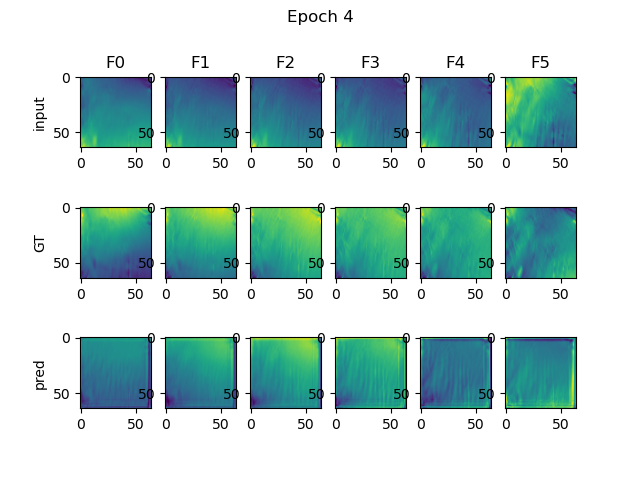
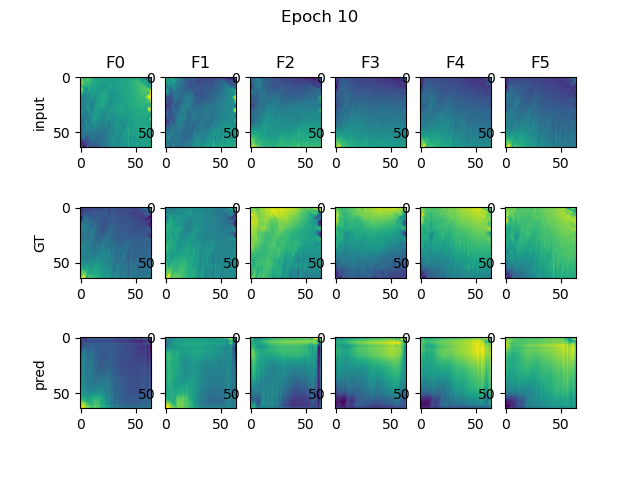
resnet discriminators

diff --git a/dcgan/resnetmodel.py b/dcgan/resnetmodel.py
@@ -1,4 +1,6 @@
+from types import SimpleNamespace
 import torch
+import torch as t
 from torch import nn, optim
 import torch.nn.functional as F
 
@@ -160,3 +162,255 @@ class VAE(nn.Module):
         std = torch.exp(logvar / 2) # in log-space, squareroot is divide by two
         epsilon = torch.randn_like(std)
         return epsilon * std + mean
+
+
+class ResNetBlock(nn.Module):
+
+    def __init__(self, c_in, act_fn, subsample=False, c_out=-1):
+        """
+        Inputs:
+            c_in - Number of input features
+            act_fn - Activation class constructor (e.g. nn.ReLU)
+            subsample - If True, we want to apply a stride inside the block and reduce the output shape by 2 in height and width
+            c_out - Number of output features. Note that this is only relevant if subsample is True, as otherwise, c_out = c_in
+        """
+        super().__init__()
+        if not subsample:
+            c_out = c_in
+
+        # Network representing F
+        self.net = nn.Sequential(
+            nn.Conv2d(c_in, c_out, kernel_size=3, padding=1, stride=1 if not subsample else 2, bias=False),  # No bias needed as the Batch Norm handles it
+            nn.BatchNorm2d(c_out),
+            act_fn(),
+            nn.Conv2d(c_out, c_out, kernel_size=3, padding=1, bias=False),
+            nn.BatchNorm2d(c_out)
+        )
+
+        # 1x1 convolution with stride 2 means we take the upper left value, and transform it to new output size
+        self.downsample = nn.Conv2d(c_in, c_out, kernel_size=1, stride=2) if subsample else None
+        self.act_fn = act_fn()
+
+    def forward(self, x):
+        z = self.net(x)
+        if self.downsample is not None:
+            x = self.downsample(x)
+        out = z + x
+        out = self.act_fn(out)
+        return out
+
+class PreActResNetBlock(nn.Module):
+
+    def __init__(self, c_in, act_fn, subsample=False, c_out=-1):
+        """
+        Inputs:
+            c_in - Number of input features
+            act_fn - Activation class constructor (e.g. nn.ReLU)
+            subsample - If True, we want to apply a stride inside the block and reduce the output shape by 2 in height and width
+            c_out - Number of output features. Note that this is only relevant if subsample is True, as otherwise, c_out = c_in
+        """
+        super().__init__()
+        if not subsample:
+            c_out = c_in
+
+        # Network representing F
+        self.net = nn.Sequential(
+            nn.BatchNorm2d(c_in),
+            act_fn(),
+            nn.Conv2d(c_in, c_out, kernel_size=3, padding=1, stride=1 if not subsample else 2, bias=False),
+            nn.BatchNorm2d(c_out),
+            act_fn(),
+            nn.Conv2d(c_out, c_out, kernel_size=3, padding=1, bias=False)
+        )
+
+        # 1x1 convolution needs to apply non-linearity as well as not done on skip connection
+        self.downsample = nn.Sequential(
+            nn.BatchNorm2d(c_in),
+            act_fn(),
+            nn.Conv2d(c_in, c_out, kernel_size=1, stride=2, bias=False)
+        ) if subsample else None
+
+    def forward(self, x):
+        z = self.net(x)
+        if self.downsample is not None:
+            x = self.downsample(x)
+        out = z + x
+        return out
+
+resnet_blocks_by_name = {
+    "ResNetBlock": ResNetBlock,
+    "PreActResNetBlock": PreActResNetBlock
+}
+act_fn_by_name = {
+    "tanh": nn.Tanh,
+    "relu": nn.ReLU,
+    "leakyrelu": nn.LeakyReLU,
+    "gelu": nn.GELU
+}
+
+class ResNetFrameDiscriminator(nn.Module):
+
+    def __init__(self, params, num_blocks=[3,3,3], c_hidden=[16,32,64], act_fn_name="relu", block_name="ResNetBlock", **kwargs):
+        """
+        Inputs:
+            num_classes - Number of classification outputs (10 for CIFAR10)
+            num_blocks - List with the number of ResNet blocks to use. The first block of each group uses downsampling, except the first.
+            c_hidden - List with the hidden dimensionalities in the different blocks. Usually multiplied by 2 the deeper we go.
+            act_fn_name - Name of the activation function to use, looked up in "act_fn_by_name"
+            block_name - Name of the ResNet block, looked up in "resnet_blocks_by_name"
+        """
+        super().__init__()
+        self.params = params
+        assert block_name in resnet_blocks_by_name
+        self.hparams = SimpleNamespace(
+                                       c_hidden=c_hidden,
+                                       num_blocks=num_blocks,
+                                       act_fn_name=act_fn_name,
+                                       act_fn=act_fn_by_name[act_fn_name],
+                                       block_class=resnet_blocks_by_name[block_name])
+        self._create_network()
+        self._init_params()
+
+    def _create_network(self):
+        c_hidden = self.hparams.c_hidden
+
+        # A first convolution on the original image to scale up the channel size
+        if self.hparams.block_class == PreActResNetBlock: # => Don't apply non-linearity on output
+            self.input_net = nn.Sequential(
+                nn.Conv2d(self.params['nc'], c_hidden[0], kernel_size=3, padding=1, bias=False)
+            )
+        else:
+            self.input_net = nn.Sequential(
+                nn.Conv2d(self.params['nc'], c_hidden[0], kernel_size=3, padding=1, bias=False),
+                nn.BatchNorm2d(c_hidden[0]),
+                self.hparams.act_fn()
+            )
+
+        # Creating the ResNet blocks
+        blocks = []
+        for block_idx, block_count in enumerate(self.hparams.num_blocks):
+            for bc in range(block_count):
+                subsample = (bc == 0 and block_idx > 0) # Subsample the first block of each group, except the very first one.
+                blocks.append(
+                    self.hparams.block_class(c_in=c_hidden[block_idx if not subsample else (block_idx-1)],
+                                             act_fn=self.hparams.act_fn,
+                                             subsample=subsample,
+                                             c_out=c_hidden[block_idx])
+                )
+        self.blocks = nn.Sequential(*blocks)
+
+        # Mapping to classification output
+        self.output_net = nn.Sequential(
+            nn.AdaptiveAvgPool2d((1,1)),
+            nn.Flatten(),
+            nn.Linear(c_hidden[-1], 1),
+            nn.Sigmoid()
+        )
+
+    def _init_params(self):
+        # Based on our discussion in Tutorial 4, we should initialize the convolutions according to the activation function
+        # Fan-out focuses on the gradient distribution, and is commonly used in ResNets
+        for m in self.modules():
+            if isinstance(m, nn.Conv2d):
+                nn.init.kaiming_normal_(m.weight, mode='fan_out', nonlinearity=self.hparams.act_fn_name)
+            elif isinstance(m, nn.BatchNorm2d):
+                nn.init.constant_(m.weight, 1)
+                nn.init.constant_(m.bias, 0)
+
+    def forward(self, x):
+
+        # noise_matrix_w_h = 12
+        # noise = t.randn( self.params['nc'] , noise_matrix_w_h, noise_matrix_w_h)
+        
+        # x_concat = t.zeros((x.shape[0], x.shape[1], x.shape[2]+ noise_matrix_w_h, x.shape[3]+ noise_matrix_w_h))
+        # x_concat[:,:,:x.shape[2], :x.shape[3]] = x
+        # x_concat[:,:,x.shape[2]:, x.shape[3]:] = noise
+
+        x = self.input_net(x)
+        x = self.blocks(x)
+        x = self.output_net(x)
+        return x.squeeze()
+
+class ResNetTemproalDiscriminator(nn.Module):
+
+    def __init__(self, params, num_blocks=[3,3,3], c_hidden=[16,32,64], act_fn_name="relu", block_name="ResNetBlock", **kwargs):
+        """
+        Inputs:
+            num_classes - Number of classification outputs (10 for CIFAR10)
+            num_blocks - List with the number of ResNet blocks to use. The first block of each group uses downsampling, except the first.
+            c_hidden - List with the hidden dimensionalities in the different blocks. Usually multiplied by 2 the deeper we go.
+            act_fn_name - Name of the activation function to use, looked up in "act_fn_by_name"
+            block_name - Name of the ResNet block, looked up in "resnet_blocks_by_name"
+        """
+        super().__init__()
+        self.params = params
+
+        assert block_name in resnet_blocks_by_name
+        self.hparams = SimpleNamespace(
+                                       c_hidden=c_hidden,
+                                       num_blocks=num_blocks,
+                                       act_fn_name=act_fn_name,
+                                       act_fn=act_fn_by_name[act_fn_name],
+                                       block_class=resnet_blocks_by_name[block_name])
+        self._create_network()
+        self._init_params()
+
+    def _create_network(self):
+        c_hidden = self.hparams.c_hidden
+
+        # A first convolution on the original image to scale up the channel size
+        if self.hparams.block_class == PreActResNetBlock: # => Don't apply non-linearity on output
+            self.input_net = nn.Sequential(
+                nn.Conv2d(self.params['nc']*2, c_hidden[0], kernel_size=3, padding=1, bias=False)
+            )
+        else:
+            self.input_net = nn.Sequential(
+                nn.Conv2d(self.params['nc']*2, c_hidden[0], kernel_size=3, padding=1, bias=False),
+                nn.BatchNorm2d(c_hidden[0]),
+                self.hparams.act_fn()
+            )
+
+        # Creating the ResNet blocks
+        blocks = []
+        for block_idx, block_count in enumerate(self.hparams.num_blocks):
+            for bc in range(block_count):
+                subsample = (bc == 0 and block_idx > 0) # Subsample the first block of each group, except the very first one.
+                blocks.append(
+                    self.hparams.block_class(c_in=c_hidden[block_idx if not subsample else (block_idx-1)],
+                                             act_fn=self.hparams.act_fn,
+                                             subsample=subsample,
+                                             c_out=c_hidden[block_idx])
+                )
+        self.blocks = nn.Sequential(*blocks)
+
+        # Mapping to classification output
+        self.output_net = nn.Sequential(
+            nn.AdaptiveAvgPool2d((1,1)),
+            nn.Flatten(),
+            nn.Linear(c_hidden[-1], 1),
+            nn.Sigmoid()
+        )
+
+    def _init_params(self):
+        # Based on our discussion in Tutorial 4, we should initialize the convolutions according to the activation function
+        # Fan-out focuses on the gradient distribution, and is commonly used in ResNets
+        for m in self.modules():
+            if isinstance(m, nn.Conv2d):
+                nn.init.kaiming_normal_(m.weight, mode='fan_out', nonlinearity=self.hparams.act_fn_name)
+            elif isinstance(m, nn.BatchNorm2d):
+                nn.init.constant_(m.weight, 1)
+                nn.init.constant_(m.bias, 0)
+
+    def forward(self, x):
+
+        # noise_matrix_w_h = 12
+        # noise = t.randn( self.params['nc'] * 2, noise_matrix_w_h, noise_matrix_w_h)
+        
+        # x_concat = t.zeros((x.shape[0], x.shape[1], x.shape[2]+ noise_matrix_w_h, x.shape[3]+ noise_matrix_w_h))
+        # x_concat[:,:,:x.shape[2], :x.shape[3]] = x
+        # x_concat[:,:,x.shape[2]:, x.shape[3]:] = noise
+
+        x = self.input_net(x)
+        x = self.blocks(x)
+        x = self.output_net(x)
+        return x.squeeze()

diff --git a/dcgan/model.py b/dcgan/model.py
@@ -102,7 +102,58 @@ class GaussianNoise(nn.Module):
 #     def forward(self, x):
 #         return self.layers(x)
 
+class ProbablisticConvGenerator(nn.Module):
+    def __init__(self, params):
+        super().__init__()
+        self.params = params
+        # Input is the latent vector Z.
 
+        self.noise_layer = GaussianNoise(0.001);
+        mlp = 1 # multiplier of the number of channels
+        # random noise matrix with batch size, channels, height, width
+     
+        
+        self.layers = nn.Sequential(
+            # GaussianNoise(0.001),
+            ConvBlock(
+                params["nc"], params["nc"] * 24 * mlp, kernel_size=4, padding="same"
+            ),
+            ConvBlock(params["nc"] * 24 * mlp, params["nc"] * 12* mlp, 4, padding="same"),
+            ConvBlock(params["nc"] * 12* mlp, params["nc"] * 8* mlp, 4, padding="same"),
+            ConvBlock(params["nc"] * 8* mlp, params["nc"] * 2 * mlp, 4, padding="same"),
+            ConvBlock(params["nc"] * mlp *2, params["nc"] * 1, 1),
+            # ConvBlock(params["nc"] * 8, params["nc"] * 12, 1 ),
+            # ConvBlock(params["nc"] * 12, params["nc"] * 24, 1),
+            # ConvBlock(params["nc"] * 24, params["nc"] * 12, 1),
+            # ConvBlock(params["nc"] * 8, params["nc"] * 1, 1),
+
+            ConvBlock(
+                params["nc"],
+                params["nc"],
+                1,
+                padding="same",
+                act=t.sigmoid,
+                batchnorm=False,
+            ),
+        )
+
+    def forward(self, x, noiseVariance = 0.001):
+         
+        # if noiseVariance == None:
+        #     return self.layers(x)
+        
+        # else:
+        #     self.noise_layer.variance = 0.001 # t.FloatTensor(1).uniform_(noiseVariance, noiseVariance*2).to(x.device)
+            # print(self.noise_layer.variance)
+
+        noise_matrix_w_h = 12
+        noise = t.randn( self.params['nc'], noise_matrix_w_h, noise_matrix_w_h)
+        
+        x_concat = t.zeros((x.shape[0], x.shape[1], x.shape[2]+ noise_matrix_w_h, x.shape[3]+ noise_matrix_w_h))
+        x_concat[:,:,:x.shape[2], :x.shape[3]] = x
+        x_concat[:,:,x.shape[2]:, x.shape[3]:] = noise
+
+        return  self.layers(x)
 
 class ConvGenerator(nn.Module):
     def __init__(self, params):
@@ -116,7 +167,7 @@ class ConvGenerator(nn.Module):
      
         
         self.layers = nn.Sequential(
-             
+            GaussianNoise(0.001),
             ConvBlock(
                 params["nc"], params["nc"] * 24 * mlp, kernel_size=4, padding="same"
             ),
@@ -148,12 +199,12 @@ class ConvGenerator(nn.Module):
             self.noise_layer.variance = 0.001 # t.FloatTensor(1).uniform_(noiseVariance, noiseVariance*2).to(x.device)
             # print(self.noise_layer.variance)
 
-        noise_matrix_w_h = 12
-        noise = t.randn( self.params['nc'], noise_matrix_w_h, noise_matrix_w_h)
+        # noise_matrix_w_h = 2
+        # noise = t.randn( self.params['nc'], noise_matrix_w_h, noise_matrix_w_h)
         
-        x_concat = t.zeros((x.shape[0], x.shape[1], x.shape[2]+ noise_matrix_w_h, x.shape[3]+ noise_matrix_w_h))
-        x_concat[:,:,:x.shape[2], :x.shape[3]] = x
-        x_concat[:,:,x.shape[2]:, x.shape[3]:] = noise
+        # x_concat = t.zeros((x.shape[0], x.shape[1], x.shape[2]+ noise_matrix_w_h, x.shape[3]+ noise_matrix_w_h))
+        # x_concat[:,:,:x.shape[2], :x.shape[3]] = x
+        # x_concat[:,:,x.shape[2]:, x.shape[3]:] = noise
 
         return  self.layers(x)
 

diff --git a/dcgan/train.py b/dcgan/train.py
@@ -11,10 +11,18 @@ import json
 from .model import (
     weights_init,
     ConvGenerator as Generator,
-    FrameDiscriminator,
-    TemporalDiscriminator
+    # FrameDiscriminator,
+    # TemporalDiscriminator
 )
-from .resnetmodel import VAE as VAEGenerator
+from .resnetmodel import (
+    # VAE as Generator,
+    ResNetTemproalDiscriminator as TemporalDiscriminator,
+    ResNetFrameDiscriminator as FrameDiscriminator)
+    
+
+
+
+
 from .data_loader import get_loaders, DataLoader
 from .utils import (
     visualize_predictions,
